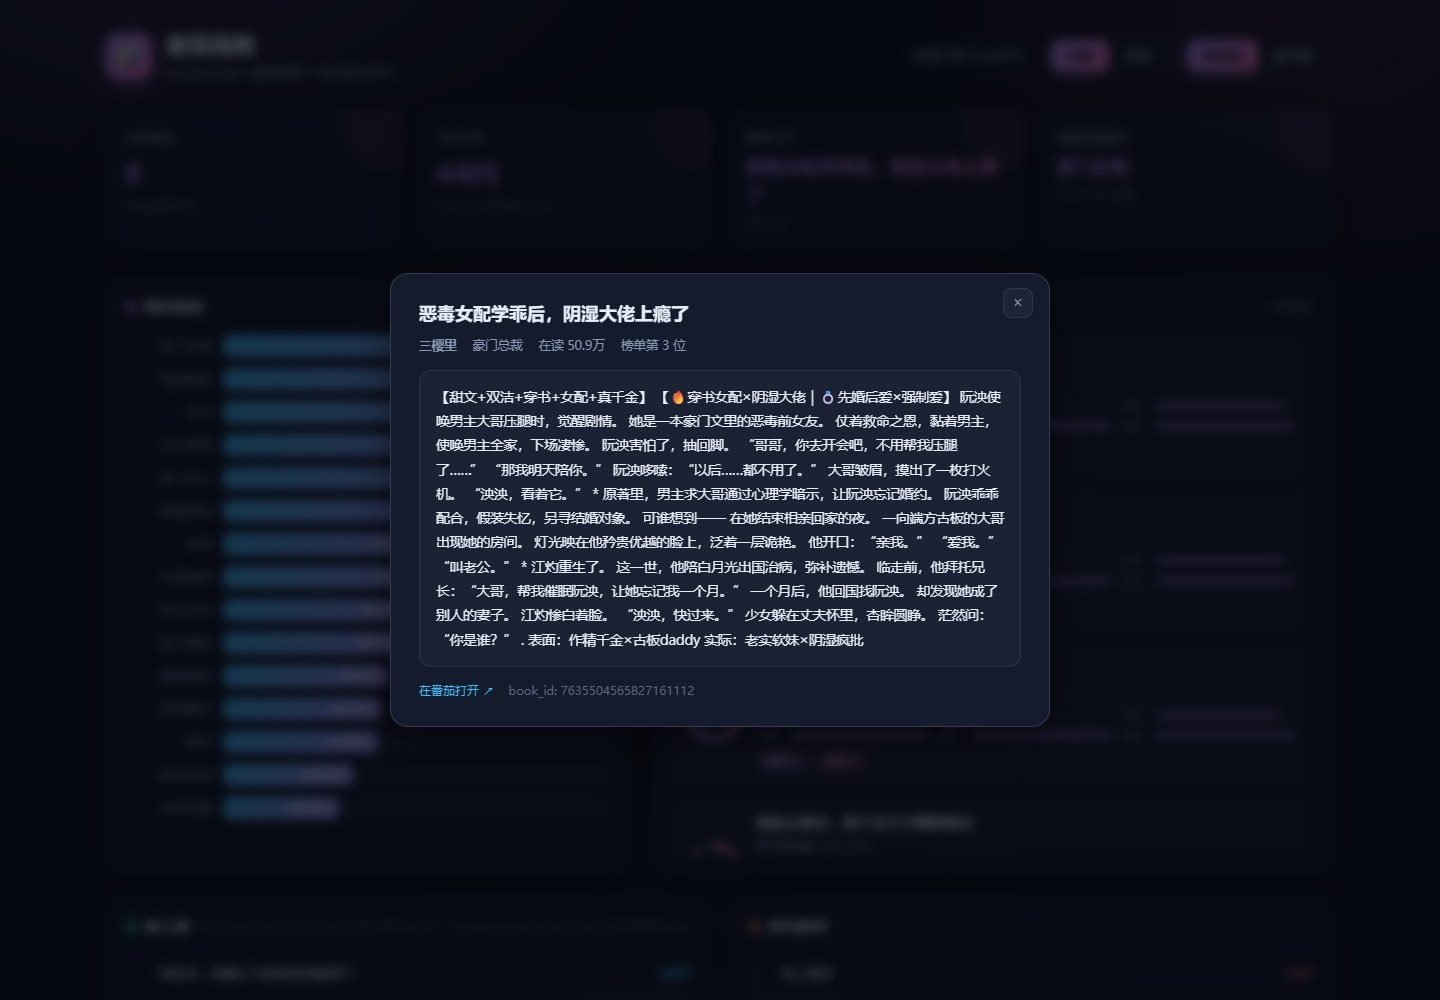
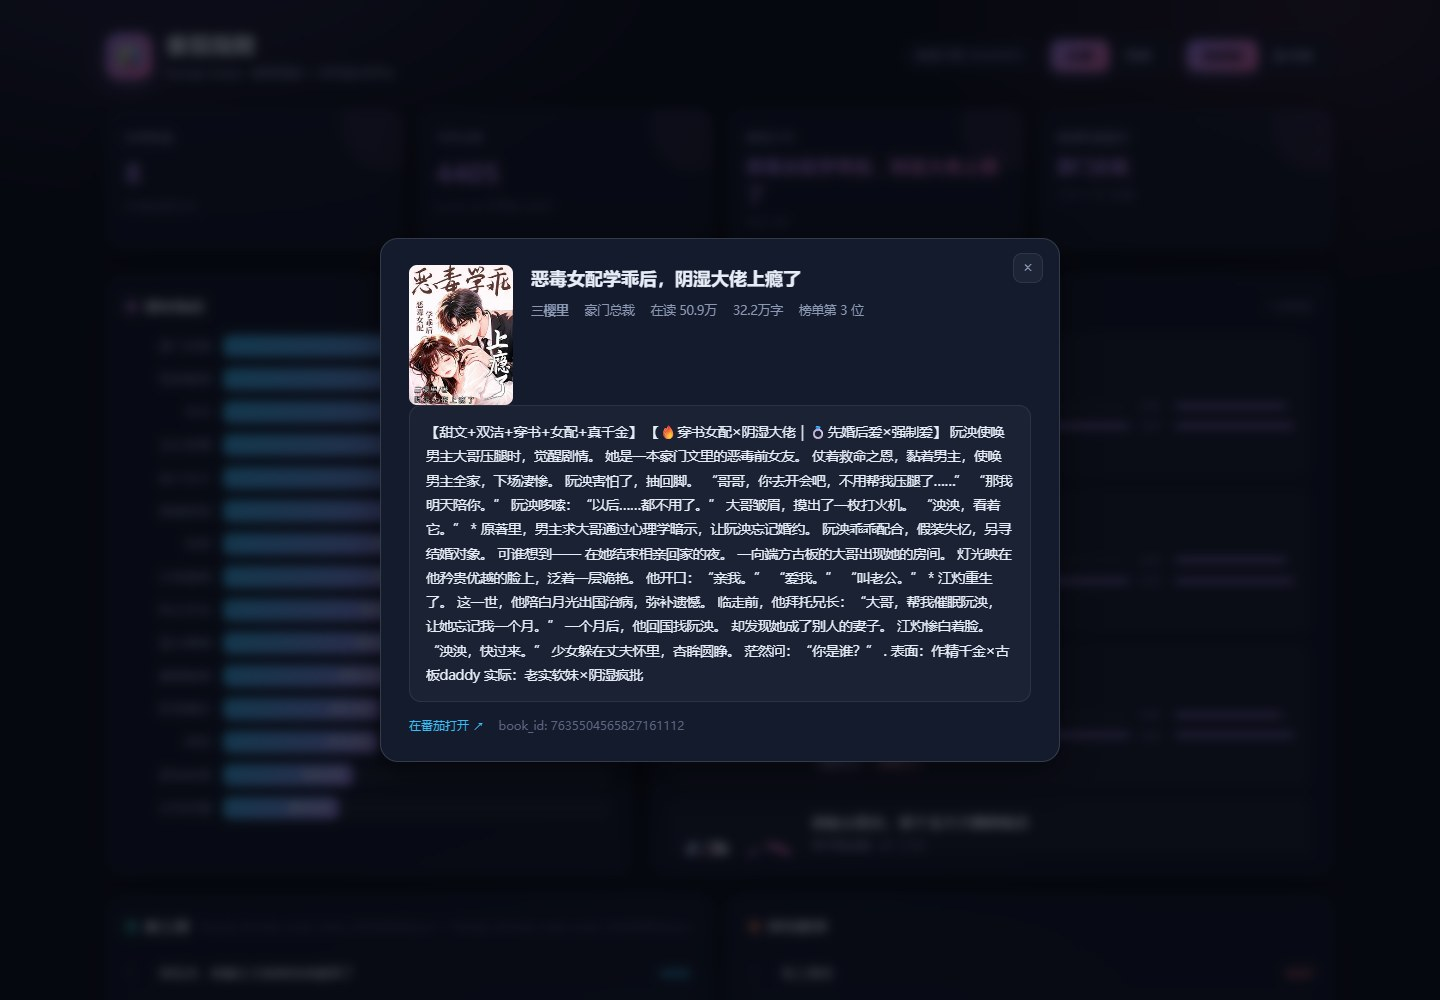
feat(看板): 封面展示 + 字数/状态缓存合并层（对齐原版 FanqieZhiShu 观感）
- web.py: 投影加 cover；<数据目录>/meta_cache.json 字数/状态缓存合并（mtime 热更新，
  快照缺字段用缓存补、有值不覆盖）——本仓库仍零抓取，缓存由用户外部工具产出
- web/: 评分卡/明细表/详情弹窗三处封面图（onerror 占位兜底）；弹窗 meta 加字数/状态
- README: 组件描述 + meta_cache.json 格式规范
- docs: 主图+弹窗图重截（真实数据，封面/32.2万字/连载中 全可见）
- 测试 20/20 过

diff --git a/web/app.js b/web/app.js
@@ -22,6 +22,12 @@ async function api(path, params = {}) {
   const r = await fetch(`/api/${path}?${qs}`);
   return r.json();
 }
+function coverHTML(b, cls) {
+  const url = b.cover || "";
+  return `<div class="cover ${cls}">` +
+    (url ? `<img src="${esc(url)}" loading="lazy" alt="" onerror="this.parentNode.classList.add('noimg')">` : `<span class="ph">无封面</span>`) +
+    `<span class="ph">无封面</span></div>`;
+}
 function ring(score) {
   const r = 24, c = 2 * Math.PI * r, off = c * (1 - score / 100);
   return `<svg class="ring" viewBox="0 0 56 56">
@@ -82,6 +88,7 @@ async function render() {
   document.getElementById("scoreList").innerHTML = top.length
     ? top.map(b => `
       <div class="score-card">
+        ${coverHTML(b, "sm")}
         ${ring(b.score)}
         <div class="sc-body">
           <div class="sc-title lnk" data-bid="${esc(b.book_id || "")}" title="${esc(b.title)}">${esc(b.title)}</div>
@@ -122,7 +129,7 @@ async function render() {
   document.getElementById("tblBody").innerHTML = rows.length
     ? rows.map(b => {
         const sc = b.book_id && smap[b.book_id] != null ? smap[b.book_id] : "—";
-        return `<tr><td class="lnk" data-bid="${esc(b.book_id || "")}">${esc(b.title)}</td><td>${esc(b.author || "—")}</td><td>${esc(b.category || "—")}</td>
+        return `<tr><td>${coverHTML(b, "tbl")}</td><td class="lnk" data-bid="${esc(b.book_id || "")}">${esc(b.title)}</td><td>${esc(b.author || "—")}</td><td>${esc(b.category || "—")}</td>
           <td>${fmtReads(b.reads)}</td>
           <td>${fmtWords(b.words)}</td><td>${sc}</td></tr>`;
       }).join("")
@@ -155,6 +162,7 @@ async function openBook(bid) {
     if (!d.available) return;
     const m = d.item;
     document.getElementById("mTitle").textContent = m.title || "未知";
+    document.getElementById("mCover").innerHTML = coverHTML(m, "lg");
     document.getElementById("mMeta").innerHTML =
       `<span><b>${esc(m.author || "—")}</b></span><span>${esc(m.category || "—")}</span>` +
       `<span>在读 ${fmtReads(m.reads)}</span>` +

diff --git a/web/style.css b/web/style.css
@@ -157,10 +157,22 @@ td.lnk, .sc-title.lnk { cursor: pointer; }
 td.lnk:hover { color: var(--accent); }
 .sc-title.lnk:hover { color: var(--accent); }
 
+/* 封面（评分卡/明细表/弹窗共用） */
+.cover { position: relative; overflow: hidden; border-radius: 8px; background: rgba(255,255,255,.06); flex-shrink: 0; }
+.cover img { width: 100%; height: 100%; object-fit: cover; display: block; }
+.cover .ph { display: none; position: absolute; inset: 0; place-items: center; font-size: 10px; color: var(--text-faint); text-align: center; }
+.cover.noimg img { display: none; }
+.cover.noimg .ph, .cover:not(:has(img)) .ph { display: grid; }
+.cover.sm { width: 42px; height: 56px; }
+.cover.tbl { width: 30px; height: 40px; }
+.cover.lg { width: 104px; height: 140px; }
+
 /* 单本详情模态 */
 .modal-mask { position: fixed; inset: 0; z-index: 50; background: rgba(4, 6, 12, .72); backdrop-filter: blur(5px); display: grid; place-items: center; }
 .modal-mask[hidden] { display: none; }
-.modal { position: relative; width: min(660px, 92vw); max-height: 80vh; overflow-y: auto; background: var(--panel-solid); border: 1px solid var(--border-strong); border-radius: 18px; padding: 26px 28px; box-shadow: var(--shadow); }
+.modal { position: relative; width: min(680px, 92vw); max-height: 82vh; overflow-y: auto; background: var(--panel-solid); border: 1px solid var(--border-strong); border-radius: 18px; padding: 26px 28px; box-shadow: var(--shadow); }
+.m-head { display: flex; gap: 18px; align-items: flex-start; }
+.m-headtxt { flex: 1; min-width: 0; }
 .modal h3 { font-size: 18px; font-weight: 800; padding-right: 30px; }
 .m-meta { font-size: 12.5px; color: var(--text-dim); margin: 8px 0 14px; display: flex; flex-wrap: wrap; gap: 8px 16px; }
 .m-intro { font-size: 13.5px; line-height: 1.8; color: var(--text); white-space: pre-wrap; background: rgba(255,255,255,.03); border: 1px solid var(--border); border-radius: 12px; padding: 14px 16px; }

diff --git a/web/index.html b/web/index.html
@@ -71,7 +71,7 @@
       <h2><span class="dot"></span>榜单明细<span class="hint" id="tblCount"></span></h2>
       <div style="overflow-x:auto">
         <table class="tbl">
-          <thead><tr><th>书名</th><th>作者</th><th>品类</th><th>在读</th><th>字数</th><th>评分</th></tr></thead>
+          <thead><tr><th>封面</th><th>书名</th><th>作者</th><th>品类</th><th>在读</th><th>字数</th><th>评分</th></tr></thead>
           <tbody id="tblBody"></tbody>
         </table>
       </div>
@@ -86,8 +86,13 @@
   <div class="modal-mask" id="modalMask" hidden>
     <div class="modal">
       <button class="m-close" id="mClose" aria-label="关闭">×</button>
-      <h3 id="mTitle"></h3>
-      <div class="m-meta" id="mMeta"></div>
+      <div class="m-head">
+        <div id="mCover"></div>
+        <div class="m-headtxt">
+          <h3 id="mTitle"></h3>
+          <div class="m-meta" id="mMeta"></div>
+        </div>
+      </div>
       <div class="m-intro" id="mIntro"></div>
       <div class="m-foot" id="mFoot"></div>
     </div>

diff --git a/src/fanqie_index/web.py b/src/fanqie_index/web.py
@@ -52,11 +52,48 @@ def _load(channel: str, rank: str, top: int | None = None) -> list[dict]:
     return books
 
 
-_SAFE_FIELDS = ("book_id", "title", "author", "category", "reads", "status", "words", "url", "gender", "date")
+_SAFE_FIELDS = ("book_id", "title", "author", "category", "reads", "status", "words", "url", "gender", "date", "cover")
+
+# 可选字数/状态缓存（<data>/meta_cache.json，由用户自备的外部补全工具产出，本仓库不抓取）
+# 格式：{"<book_id>": {"words": 356000, "status": "已完结", "chapters": 158}}
+_META_CACHE: dict | None = None
+_META_CACHE_MTIME = 0.0
+
+
+def _meta_cache() -> dict:
+    """读 meta_cache.json（带 mtime 热更新，改文件无需重启）。"""
+    global _META_CACHE, _META_CACHE_MTIME
+    import os
+    paths = []
+    for d in S.data_dirs():
+        p = d / "meta_cache.json"
+        if p.is_file():
+            paths.append(p)
+    src = paths[0] if paths else None
+    if src is None:
+        return _META_CACHE or {}
+    try:
+        mt = src.stat().st_mtime
+        if _META_CACHE is None or mt != _META_CACHE_MTIME:
+            _META_CACHE = json.loads(src.read_text(encoding="utf-8"))
+            _META_CACHE_MTIME = mt
+    except Exception:
+        pass
+    return _META_CACHE or {}
 
 
 def _project(b: dict) -> dict:
-    return {k: b.get(k) for k in _SAFE_FIELDS}
+    out = {k: b.get(k) for k in _SAFE_FIELDS}
+    mc = _meta_cache().get(str(b.get("book_id") or ""))
+    if mc:
+        # 快照缺字段时用缓存补（字数/状态）；快照有值不覆盖
+        if not out.get("words") and mc.get("words"):
+            out["words"] = mc["words"]
+        if not out.get("status") and mc.get("status"):
+            out["status"] = mc["status"]
+        if mc.get("chapters"):
+            out["chapters"] = mc["chapters"]
+    return out
 
 
 def _api_meta(q: dict | None = None) -> dict:

diff --git a/README.md b/README.md
@@ -114,11 +114,11 @@ fanqie-index-web --data <你的数据目录> --port 8401
 
 - **KPI 条**：快照数 / 书目数 / 最高分书 / 最强吸量题材
 - **题材热度**：SVG 渐变条形图（按在读总量）
-- **仿写选书评分 Top**：卡片网格，每卡含分数环 + 六维小条（完结/体量/热度/吸量/套路/金指）+ 套路/金手指命中标签
+- **仿写选书评分 Top**：卡片网格，每卡含**封面** + 分数环 + 六维小条（完结/体量/热度/吸量/套路/金指）+ 套路/金手指命中标签
 - **趋势差分**：新上榜 / 掉出榜单 两列（需 ≥2 份同榜快照）
 - **书名热词**：套路词频标签云
-- **榜单明细**：书名 / 作者 / 品类 / 在读 / 字数 / 评分
-- **点击书名看简介**：任意书名（评分卡或明细表）点击弹出单本详情——简介全文、作者、品类、在读、榜单位次、番茄原链、book_id
+- **榜单明细**：封面 / 书名 / 作者 / 品类 / 在读 / 字数 / 评分
+- **点击书名看详情**：任意书名（评分卡或明细表）点击弹出单本详情——**封面、简介全文、字数、连载状态**、作者、品类、在读、榜单位次、番茄原链、book_id
 
 ![简介弹窗](docs/screenshot-modal.jpg)
 
@@ -152,6 +152,15 @@ fanqie_{gender}_{rank}_ranks_{YYYYMMDD}.json
 - `bookid` 缺失时自动从 `url` 的 `/page/{id}` 提取——**全量书目都可被 book_id 寻址**。
 - `intro` 选填：有它评分更准确（套路/金手指命中），没有给中性分。
 - 也兼容平铺格式 `{"books": [...], ...}`（每本自带 `category`）。
+
+**可选：字数/状态缓存**（`<数据目录>/meta_cache.json`）——榜单快照通常不含字数/状态，
+本仓库**不抓取**，由你自己的外部工具补全后放到数据目录即可，看板自动合并（mtime 热更新，改完即生效）：
+
+```json
+{ "<book_id>": { "words": 356000, "status": "已完结", "chapters": 158 } }
+```
+
+快照缺字段时用缓存补，快照有值不覆盖。没有缓存文件看板照常工作（字数显示 "—"）。
 
 ---
 
